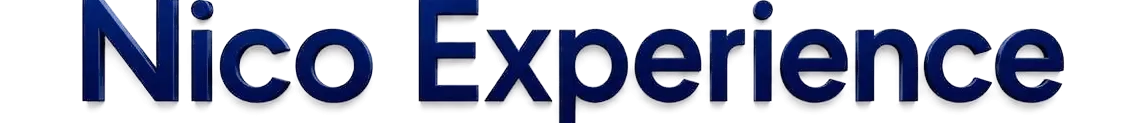
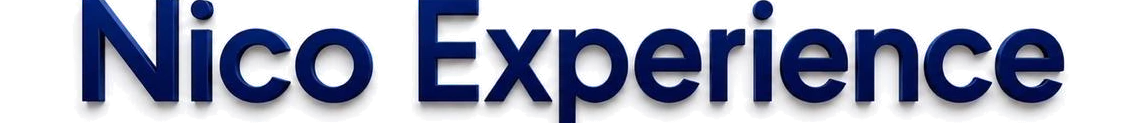
docs: document brand and PDF workflow

diff --git a/scripts/prepare-brand-and-pdf-assets.py b/scripts/prepare-brand-and-pdf-assets.py
@@ -84,8 +84,34 @@ def save_pdf_jpeg(
     print(f"{source.name} -> {destination.relative_to(ROOT)}")
 
 
-def save_compact_wordmark(source: Path, destination: Path) -> None:
-    destination.parent.mkdir(parents=True, exist_ok=True)
+def white_to_transparent(image: Image.Image) -> Image.Image:
+    rgba = image.convert("RGBA")
+    output: list[tuple[int, int, int, int]] = []
+    for red, green, blue, _alpha in rgba.getdata():
+        distance = ((255 - red) ** 2 + (255 - green) ** 2 + (255 - blue) ** 2) ** 0.5
+        alpha = round(max(0, min(255, (distance - 8) * 255 / 142)))
+        if alpha == 0:
+            output.append((0, 0, 0, 0))
+            continue
+        ratio = alpha / 255
+        output.append(
+            (
+                max(0, min(255, round((red - 255 * (1 - ratio)) / ratio))),
+                max(0, min(255, round((green - 255 * (1 - ratio)) / ratio))),
+                max(0, min(255, round((blue - 255 * (1 - ratio)) / ratio))),
+                alpha,
+            )
+        )
+    rgba.putdata(output)
+    return rgba
+
+
+def save_compact_wordmark(
+    source: Path,
+    opaque_destination: Path,
+    transparent_destination: Path,
+) -> None:
+    opaque_destination.parent.mkdir(parents=True, exist_ok=True)
     image = normalized_rgb(source)
     width, height = image.size
     wordmark = image.crop(
@@ -96,8 +122,15 @@ def save_compact_wordmark(source: Path, destination: Path) -> None:
             round(height * 0.69),
         )
     )
-    wordmark.save(destination, "WEBP", quality=92, method=6)
-    print(f"{source.name} -> {destination.relative_to(ROOT)}")
+    wordmark.save(opaque_destination, "WEBP", quality=92, method=6)
+    white_to_transparent(wordmark).save(
+        transparent_destination,
+        "WEBP",
+        quality=92,
+        method=6,
+    )
+    print(f"{source.name} -> {opaque_destination.relative_to(ROOT)}")
+    print(f"{source.name} -> {transparent_destination.relative_to(ROOT)}")
 
 
 def property_sources() -> dict[str, Path]:
@@ -124,6 +157,10 @@ def main() -> None:
     save_compact_wordmark(
         BRAND_SOURCE,
         ROOT / "public" / "brand" / "nico-experience-wordmark.webp",
+        ROOT
+        / "public"
+        / "brand"
+        / "nico-experience-wordmark-transparent.webp",
     )
     save_web(
         HERO_SOURCE,

diff --git a/README.md b/README.md
@@ -10,6 +10,8 @@ El proyecto está adaptado desde [`gonzalochale/saas-landing-template`](https://
 - `/alojamientos` — catálogo de propiedades activas.
 - `/alojamientos/casa-palac` — micrositio canónico de Casa Palac, ubicada frente a la playa.
 - `/contacto` — formulario que prepara una consulta contextual y continúa por WhatsApp.
+- `/api/alojamientos/casa-palac/pdf` — ficha PDF individual descargable.
+- `/api/alojamientos/catalogo/pdf` — catálogo PDF de propiedades activas.
 
 `/alojamientos/casa-palac-frente-a-playa`, `/cabanas`, `/cabanas/casa-vip` y `/nosotros` redirigen a destinos vigentes para conservar enlaces anteriores.
 
@@ -46,13 +48,15 @@ El teléfono confirmado es `[phone redacted]` y el valor normalizado de WhatsApp e
 1. Guarda sus fotografías optimizadas en `public/images/<slug>/` y conserva los originales fuera de esa carpeta pública.
 2. Agrega un objeto validado por Zod en `content/properties.ts`.
 3. Define un `slug` único, nombre, descripciones, `featuredImage` y medios con título, descripción, categoría y texto alternativo.
-4. Incluye únicamente ubicación, características, inventario, capacidad, precio y políticas confirmadas.
-5. Marca `active: true` cuando esté listo para publicarse y `featured: true` si debe aparecer en inicio.
-6. Ejecuta lint, typecheck, pruebas y build. La ruta `/alojamientos/<slug>` y el sitemap se generan automáticamente.
+4. Selecciona hasta seis fotografías representativas con `includeInPdf: true` y una variante JPEG local en `pdfSrc` dentro de `public/pdf-assets/<slug>/`.
+5. Incluye únicamente ubicación, características, inventario, capacidad, precio y políticas confirmadas.
+6. Marca `active: true` cuando esté listo para publicarse y `featured: true` si debe aparecer en inicio.
+7. Ejecuta lint, typecheck, pruebas y build. La ruta `/alojamientos/<slug>`, la ficha PDF y el sitemap se generan automáticamente.
 
 ## Actualizar contenido
 
 - Cambiar una fotografía: reemplaza el derivado en `public/images/<slug>/` manteniendo el nombre o actualiza `src` en `content/properties.ts`. Conserva proporción y original.
+- Cambiar una fotografía del PDF: reemplaza su JPEG en `public/pdf-assets/<slug>/` o actualiza `pdfSrc`; vuelve a descargar y revisar todas las páginas.
 - Agregar un video: añade una entrada a `videos` con título, URL, proveedor y poster opcional. Los archivos locales no deben reproducirse automáticamente.
 - Modificar una descripción: edita la propiedad o la entrada de `media` correspondiente en `content/properties.ts`.
 - Actualizar la cocina: modifica `kitchenInventory` únicamente con elementos confirmados.
@@ -60,6 +64,15 @@ El teléfono confirmado es `[phone redacted]` y el valor normalizado de WhatsApp e
 - Cambiar un servicio: edita `content/services.ts`; los iconos disponibles están limitados por el esquema Zod.
 - Cambiar WhatsApp: actualiza `NEXT_PUBLIC_WHATSAPP_NUMBER` y `NEXT_PUBLIC_PHONE` localmente y en Vercel.
 - Regenerar fotografías: ejecuta `py -3 scripts/optimize-property-photos.py` desde los originales preservados y revisa visualmente el resultado.
+- Regenerar marca y PDF: ejecuta `py -3 scripts/prepare-brand-and-pdf-assets.py`; conserva `source-assets/brand/nico-experience-logo.jpeg` y `source-assets/hero/nico-experience-neutral.png` como fuentes recuperables.
+- Cambiar el logo: reemplaza únicamente `source-assets/brand/nico-experience-logo.jpeg`, ejecuta el script anterior y revisa navbar, footer, claro, oscuro y las fichas PDF.
+- Cambiar el hero neutral: reemplaza `source-assets/hero/nico-experience-neutral.png`, ejecuta el script y confirma que la imagen no represente falsamente una propiedad, destino o persona real.
+
+## Descargas PDF
+
+Las fichas se generan en el servidor con `@react-pdf/renderer` desde los mismos datos Zod que usa la web. No dupliques textos dentro de los componentes PDF. La ficha individual incluye hasta seis fotos y el catálogo usa únicamente propiedades activas. Un slug inexistente o inactivo responde 404.
+
+Después de cambiar contenido o fotografías, descarga ambos PDF, guárdalos temporalmente en `output/pdf/`, renderiza todas las páginas con Poppler dentro de `tmp/pdfs/` y verifica cortes, caracteres, enlaces, calidad y peso antes de desplegar.
 
 ## Datos confirmados
 